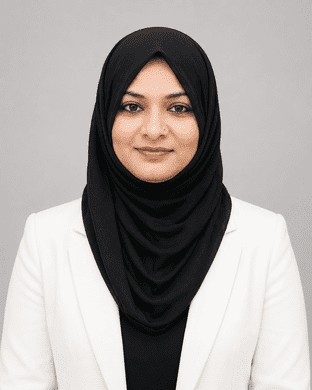
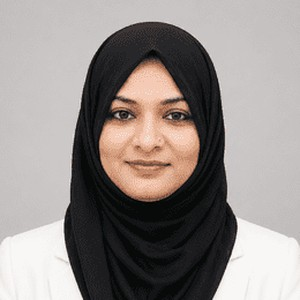
Smaller profile photo and research skills on Home page
- Profile photo 120px (96px on About), tighter crop, subtler border
- Key Skills split into Research Skills and Data Analytics Tools grids
- Header tagline now includes machine learning and learning analytics

Claude-Session: https://claude.ai/code/session_01UdjpJt3vKjUacRCjx1dffK

diff --git a/index.html b/index.html
@@ -24,7 +24,7 @@
     <img src="images/profile.jpg" alt="Portrait of Saba Zafar" class="profile-photo">
     <h1>Saba Zafar</h1>
     <p>Data Analyst · Learning Analytics Researcher</p>
-    <p>Excel · SQL · Python · Tableau · Power BI</p>
+    <p>Python · Machine Learning · Learning Analytics · SQL · Tableau · Power BI</p>
 </header>
 
 <div class="container">
@@ -40,16 +40,25 @@
 
     <div class="card">
         <h2>Key Skills</h2>
-        <h3>Excel</h3>
-        <p class="justified-text">Advanced use of Microsoft Excel for data cleaning, transformation and analysis. Skilled in Pivot Tables, Power Query, formulas and dashboard creation to generate accurate reports and track key performance indicators (KPIs).</p>
-        <h3>SQL</h3>
-        <p class="justified-text">Writing SQL queries to extract, filter and manipulate data from relational databases, including joins, aggregations and data validation for efficient analysis and reporting.</p>
-        <h3>Python</h3>
-        <p class="justified-text">Python for data analysis and machine learning with Pandas, NumPy, scikit-learn and PyTorch, used for data cleaning, automation, exploratory analysis and predictive modeling.</p>
-        <h3>Power BI</h3>
-        <p class="justified-text">Developing interactive dashboards and reports in Power BI, with data modeling, DAX functions and visualization techniques that present insights in a clear, business-friendly format.</p>
-        <h3>Tableau</h3>
-        <p class="justified-text">Creating dynamic, visually clear dashboards in Tableau that turn complex datasets into intuitive visual stories and highlight key trends.</p>
+
+        <h3 class="skill-group">Research Skills</h3>
+        <div class="skill-grid">
+            <div class="skill"><h4>Machine Learning</h4><p>Random forests, LSTM sequence models and K-means clustering with scikit-learn and PyTorch, applied to learner behavior data.</p></div>
+            <div class="skill"><h4>Explainable AI</h4><p>SHAP explanations that show which learner behaviors drive a model's predictions, so teachers can act on them.</p></div>
+            <div class="skill"><h4>Quantitative Analysis</h4><p>Non-parametric tests (Mann-Whitney U, Wilcoxon signed-rank), bootstrap resampling and statistical analysis in Python and R.</p></div>
+            <div class="skill"><h4>Qualitative Analysis</h4><p>Literature synthesis and conceptual framework development, such as the TEACH framework on teachers' digital skills.</p></div>
+            <div class="skill"><h4>Learning Analytics</h4><p>Modeling engagement and cognitive load from large educational datasets such as OULAD clickstream data.</p></div>
+            <div class="skill"><h4>Research Methods &amp; Open Science</h4><p>Research design, transparent reporting of corrected and non-replicating results, LaTeX, Git, Zotero and OSF.</p></div>
+        </div>
+
+        <h3 class="skill-group">Data Analytics Tools</h3>
+        <div class="skill-grid">
+            <div class="skill"><h4>Python</h4><p>Pandas, NumPy, scikit-learn and PyTorch for data cleaning, automation, analysis and predictive modeling.</p></div>
+            <div class="skill"><h4>SQL</h4><p>Queries with joins, aggregations and data validation for efficient analysis and reporting.</p></div>
+            <div class="skill"><h4>Excel</h4><p>Pivot Tables, Power Query, formulas and dashboards for reports and KPI tracking.</p></div>
+            <div class="skill"><h4>Power BI</h4><p>Interactive dashboards with data modeling and DAX that present insights clearly.</p></div>
+            <div class="skill"><h4>Tableau</h4><p>Dynamic dashboards that turn complex datasets into clear visual stories.</p></div>
+        </div>
     </div>
 
 </div>

diff --git a/style.css b/style.css
@@ -58,17 +58,35 @@ header {
 header h1 { margin: 0 0 8px; }
 
 .profile-photo {
-    width: 160px;
-    height: 160px;
+    width: 120px;
+    height: 120px;
     object-fit: cover;
-    object-position: center 20%;
     border-radius: 50%;
-    border: 4px solid rgba(255, 255, 255, 0.9);
-    box-shadow: 0 4px 14px rgba(0, 0, 0, 0.25);
-    margin-bottom: 14px;
+    border: 3px solid rgba(255, 255, 255, 0.85);
+    box-shadow: 0 2px 8px rgba(0, 0, 0, 0.2);
+    margin-bottom: 10px;
 }
 
-.profile-photo.small { width: 120px; height: 120px; }
+.profile-photo.small { width: 96px; height: 96px; }
+
+/* SKILLS GRID */
+.skill-group { margin-top: 18px; color: #0a66c2; font-size: 1.05em; }
+.skill-grid {
+    display: grid;
+    grid-template-columns: repeat(auto-fit, minmax(260px, 1fr));
+    gap: 12px;
+    margin-top: 10px;
+}
+.skill {
+    border: 1px solid #e3e6ea;
+    border-radius: 8px;
+    padding: 12px 14px;
+}
+.skill h4 { margin: 0 0 4px; font-size: 1em; }
+.skill p { margin: 0; font-size: 0.93em; color: #444; }
+.dark-mode .skill { border-color: #333; }
+.dark-mode .skill p { color: #bbb; }
+.dark-mode .skill-group { color: #6fb1f0; }
 header p { margin: 0; opacity: 0.95; }
 
 /* CONTAINER */
